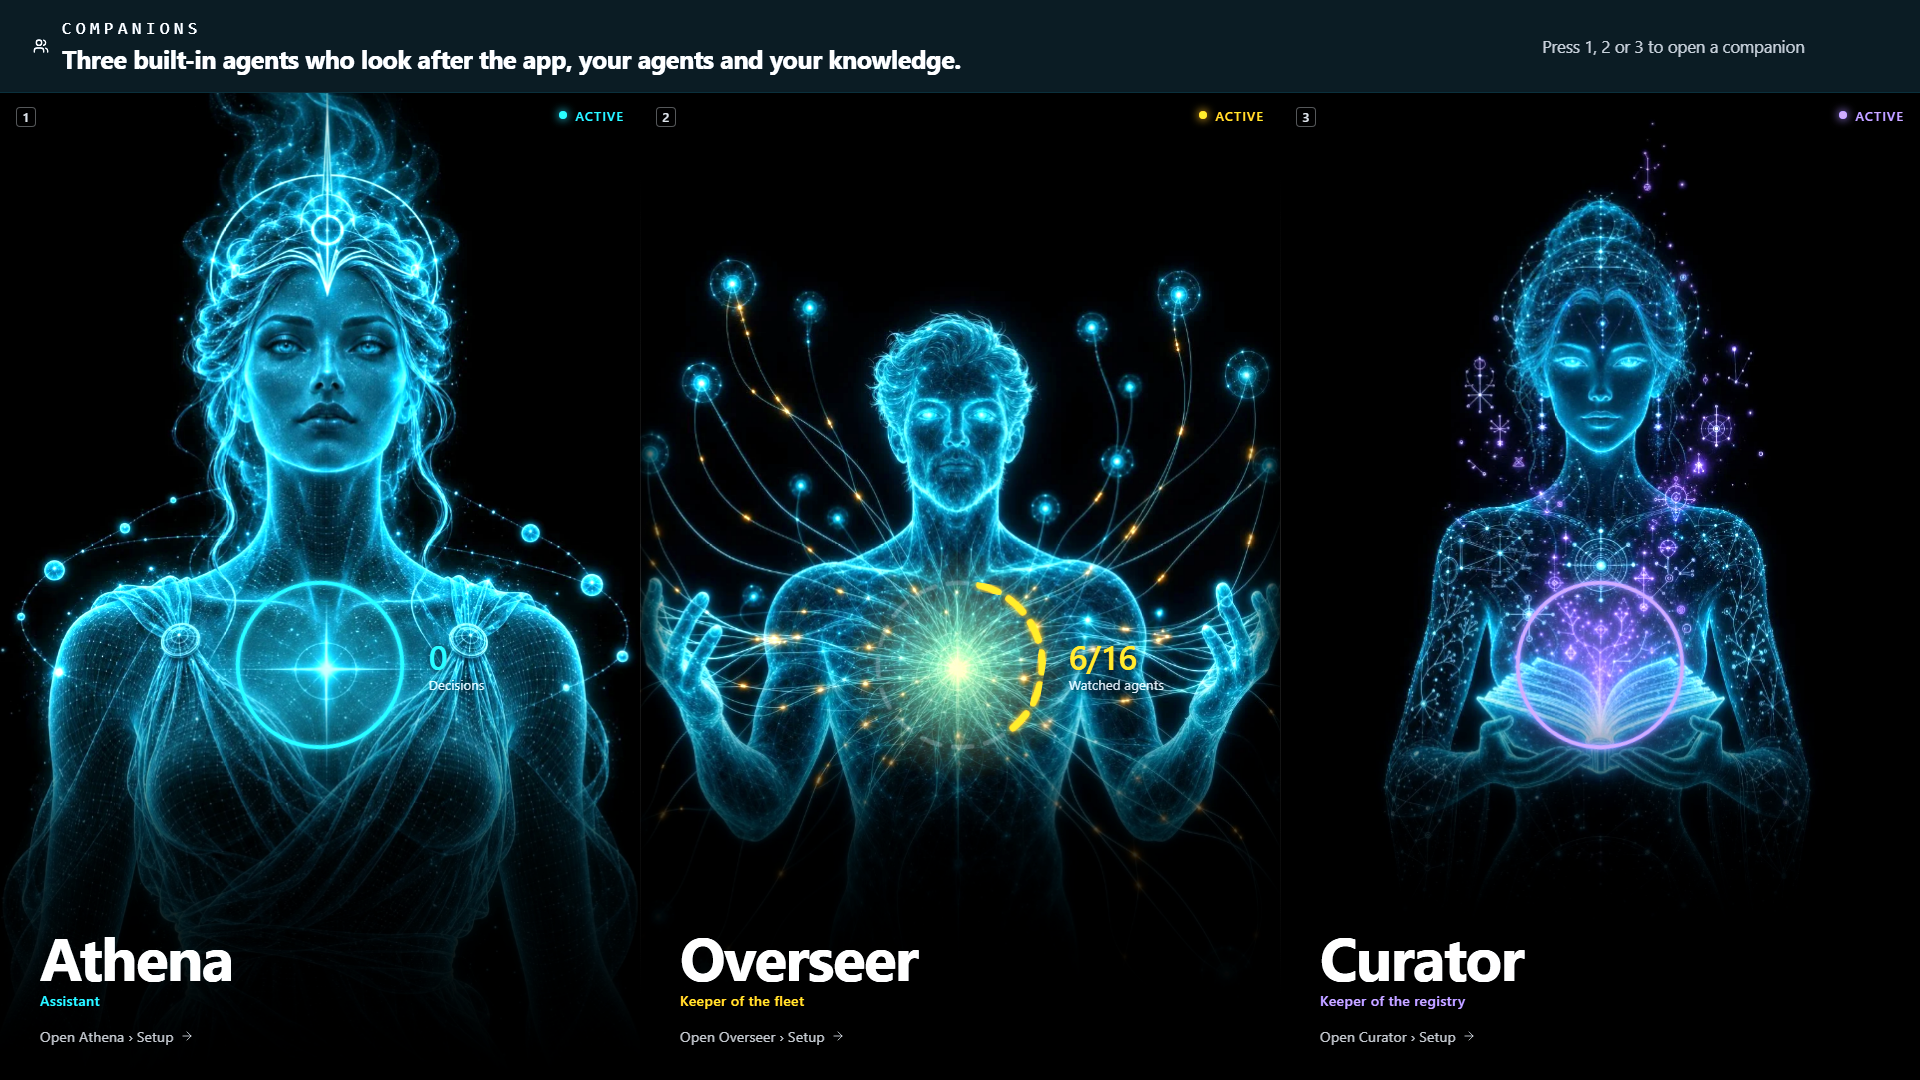
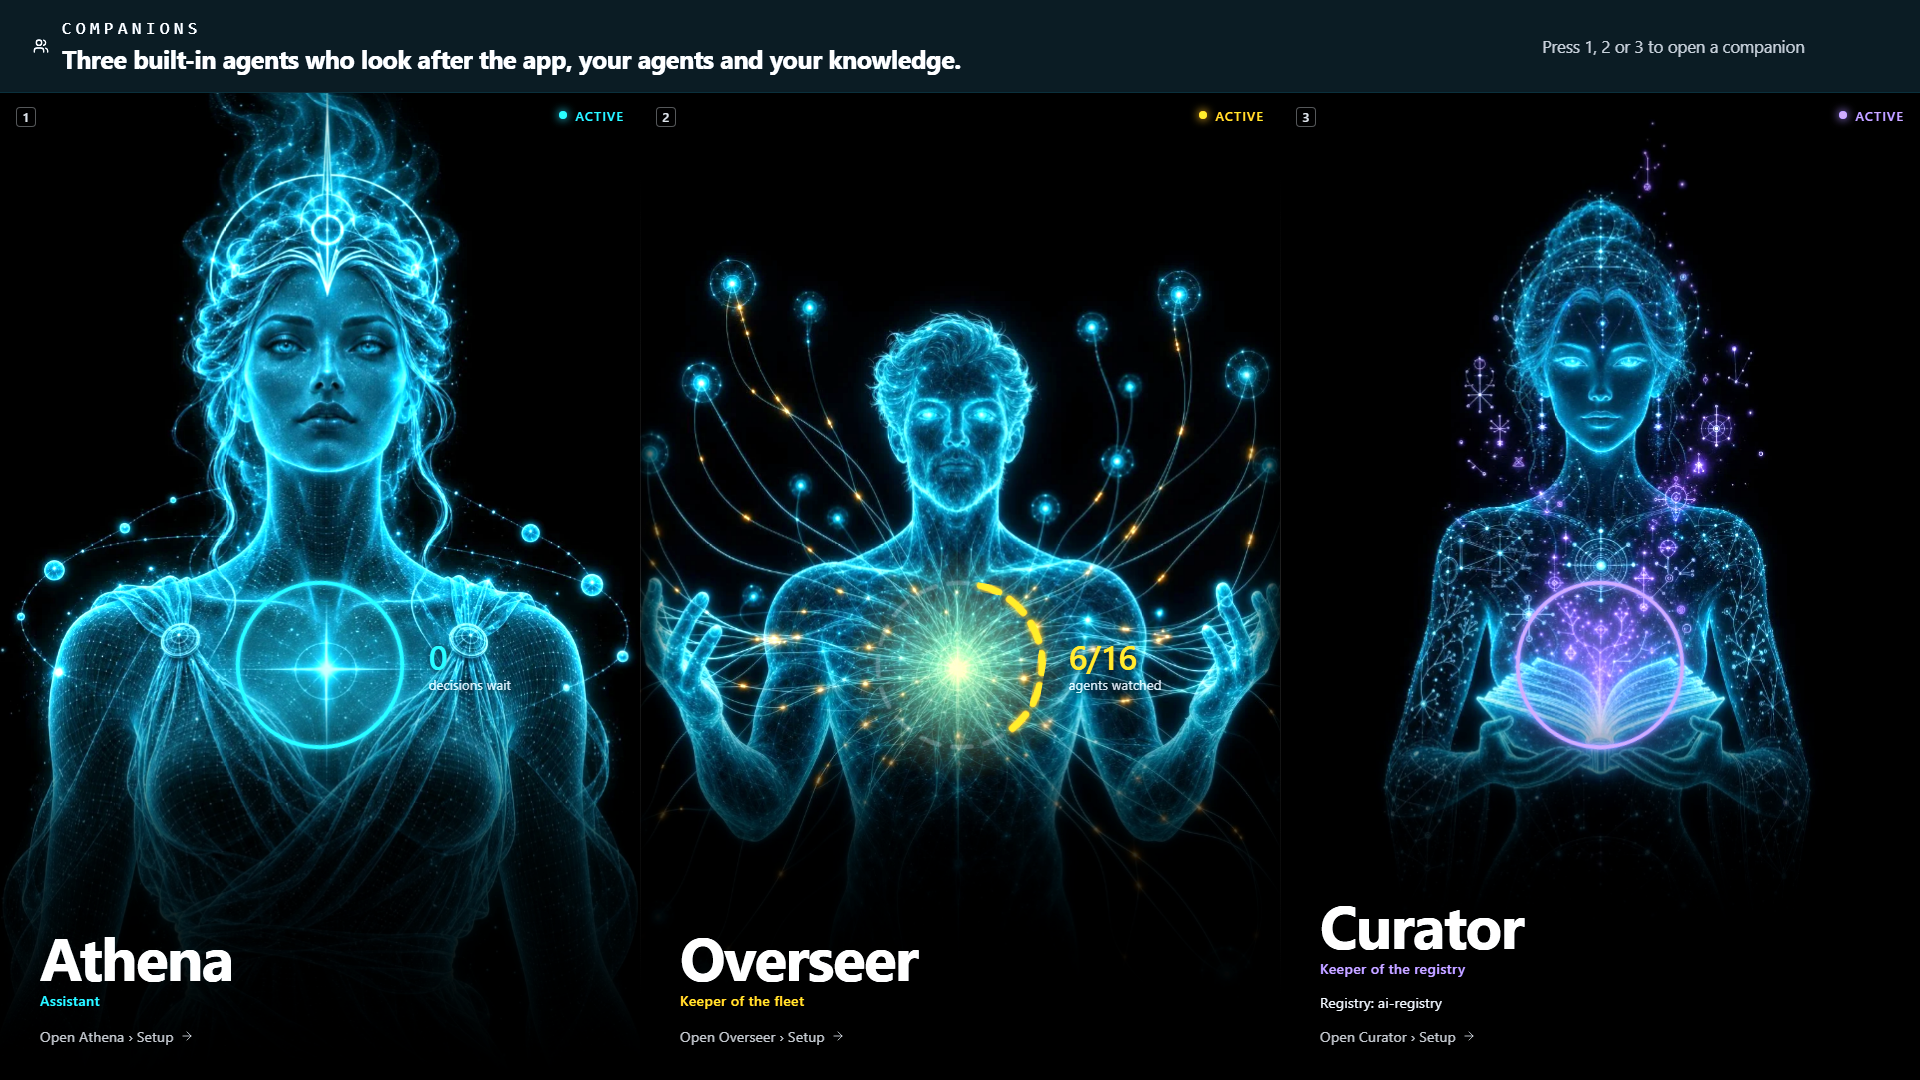
feat(companions): the landing takes its own keys, and the contract goes to zero
The seven keys a52d86f10 added are the ones the first port had to work
around, and adopting them closes both departures it had to accept:

  before  0 deviations across 12 roles, 2 accepted by the owner
          blocker.width  201 -> 293   facts.width  80 -> 54
  after   0 deviations across 13 roles, NOTHING accepted
          blocker.width  201 -> 201   facts.width  80 -> 80

Both widths are now pixel-identical to the winner, because the words are:
`landing.wake_no_starred_personas` is "Star an agent to watch", the same
line the prototype's designer wrote, and `landing.decisions_label` is
"decisions wait". Measured at 1440x900 and 1280x800, at the root the winner
was judged at and at the app's own. The `blocker.*` sentences are untouched
and stay with the Setup pages, which have room to explain rather than point.

`landing.registry_fact` gives Curator's prose line a key it can render, so
the winner's fact line above the action has a port for the one column
`CompanionDetailDto` can build a sentence for. That is the thirteenth role,
scoped to Curator on both sides.

The local `fill()` is gone. Every companions.* placeholder is single-brace
now, so the shared `interpolate` reads them and there is one interpolator in
the app again instead of three.

Driven, not screenshotted: 66 assertions, including that the chip carries no
full stop, that the count label is the noun phrase, that Curator names its
registry, that a companion with no fact draws no fact line, and that no `{`
[…]

Changed region(s): [[0.6875, 0.825, 0.8125, 0.9472], [0.5625, 0.6111, 0.5938, 0.6417], [0.2188, 0.6111, 0.25, 0.6417]]

diff --git a/src/features/companions/landing/landingModel.ts b/src/features/companions/landing/landingModel.ts
@@ -5,6 +5,7 @@
 // count is never drawn as 0. The four states come from `landingStateOf` and
 // the destination from `landingTarget` - this file invents neither.
 import type { Translations } from '@/i18n/generated/types';
+import { interpolate } from '@/i18n/useTranslation';
 
 import { landingStateOf } from '../status/landingState';
 import { landingTarget } from '../status/landingTarget';
@@ -35,6 +36,8 @@ export interface CompanionColumnView {
   stateWord: string;
   /** The one line that would wake a sleeping companion. Null while active. */
   blockerLine: string | null;
+  /** A live fact about this companion, when the DTO carries one. */
+  fact: string | null;
   openLine: string;
   /** The drawn quantity beside the ring. Null when nothing is known. */
   count: { value: string; label: string } | null;
@@ -46,20 +49,6 @@ export interface CompanionColumnView {
   portraitSrc: string;
   target: CompanionsPage;
   ariaLabel: string;
-}
-
-/**
- * `companions.*` writes placeholders as `{{name}}`; the shared `interpolate`
- * helper matches the single-brace `{name}` form and would leave `{Athena}`
- * behind. Two other surfaces hand-replace the double-brace form the same way
- * (`MemoryPanel.tsx:64`, `OverviewParts.tsx:103`). Requested for normalisation
- * in `wp4-key-requests.jsonl`; until then this is the reader.
- */
-function fill(template: string, vars: Record<string, string | number>): string {
-  if (typeof template !== 'string') return '';
-  return template.replace(/\{\{(\w+)\}\}/g, (whole, key: string) =>
-    vars[key] !== undefined ? String(vars[key]) : whole,
-  );
 }
 
 const NAME_KEY = { athena: 'group_athena', overseer: 'group_overseer', curator: 'group_curator' } as const;
@@ -74,12 +63,28 @@ function pageLabel(page: CompanionsPage, c: CompanionStrings): string {
   return c.nav.page_council;
 }
 
-/** The wake line: what a non-active companion is waiting for. */
+/**
+ * The wake line: what a non-active companion is waiting for, in the chip's own
+ * voice. `landing.wake_*` are short imperatives sized for the chip; the longer
+ * `blocker.*` sentences belong to the Setup pages, where there is room to
+ * explain rather than to point.
+ */
 function blockerOf(status: CompanionStatusDto, state: LandingState, c: CompanionStrings): string | null {
   if (state === 'active') return null;
-  if (state === 'off') return c.blocker.off;
-  if (state === 'needs_onboarding') return c.blocker.not_onboarded;
-  return status.blocker ? c.blocker[status.blocker] : c.blocker.off;
+  if (state === 'off') return c.landing.wake_off;
+  if (state === 'needs_onboarding') return c.landing.wake_not_onboarded;
+  if (status.blocker === 'no_starred_personas') return c.landing.wake_no_starred_personas;
+  if (status.blocker === 'no_registry') return c.landing.wake_no_registry;
+  return c.landing.wake_not_onboarded;
+}
+
+/**
+ * The prose line above the action. Only Curator has one today: the DTO carries
+ * a registry NAME and nothing else a sentence could be built from.
+ */
+function factOf(status: CompanionStatusDto, c: CompanionStrings): string | null {
+  const name = status.detail.registryName;
+  return name === undefined ? null : interpolate(c.landing.registry_fact, { name });
 }
 
 /**
@@ -95,8 +100,8 @@ function countOf(
   const d = status.detail;
   if (status.id === 'athena' && d.pendingDecisions !== undefined) {
     return {
-      count: { value: String(d.pendingDecisions), label: c.nav.page_decisions },
-      sentence: fill(c.landing.decisions_waiting, { count: d.pendingDecisions }),
+      count: { value: String(d.pendingDecisions), label: c.landing.decisions_label },
+      sentence: interpolate(c.landing.decisions_waiting, { count: d.pendingDecisions }),
     };
   }
   // `agentsTotal` of 0 is a real reading, but "0/0 agents" says nothing: on a
@@ -104,8 +109,8 @@ function countOf(
   // says so. The prototype guards the same way.
   if (status.id === 'overseer' && d.starredCount !== undefined && (d.agentsTotal ?? 0) > 0) {
     return {
-      count: { value: `${d.starredCount}/${d.agentsTotal}`, label: c.setup.overseer_scope_title },
-      sentence: fill(c.landing.agents_watched, { count: d.starredCount }),
+      count: { value: `${d.starredCount}/${d.agentsTotal}`, label: c.landing.agents_label },
+      sentence: interpolate(c.landing.agents_watched, { count: d.starredCount }),
     };
   }
   return { count: null, sentence: '' };
@@ -134,8 +139,9 @@ export function columnOf(status: CompanionStatusDto, index: number, c: Companion
   const name = c.nav[NAME_KEY[status.id]];
   const title = c.identity[TITLE_KEY[status.id]];
   const target = landingTarget(status);
-  const openLine = `${fill(c.landing.open_hint, { name })} › ${pageLabel(target, c)}`;
+  const openLine = `${interpolate(c.landing.open_hint, { name })} › ${pageLabel(target, c)}`;
   const blockerLine = blockerOf(status, state, c);
+  const fact = factOf(status, c);
   const { count, sentence } = countOf(status, c);
   const stateWord = c.state[state];
 
@@ -148,6 +154,7 @@ export function columnOf(status: CompanionStatusDto, index: number, c: Companion
     state,
     stateWord,
     blockerLine,
+    fact,
     openLine,
     count,
     ring: ringOf(status, state),
@@ -155,7 +162,7 @@ export function columnOf(status: CompanionStatusDto, index: number, c: Companion
     working: state === 'active',
     portraitSrc: `/companions/${status.id}/portrait.webp`,
     target,
-    ariaLabel: [`${name}, ${title}.`, `${stateWord}.`, sentence, blockerLine ?? openLine]
+    ariaLabel: [`${name}, ${title}.`, `${stateWord}.`, sentence, fact, blockerLine ?? openLine]
       .filter(Boolean)
       .join(' '),
   };

diff --git a/src/features/companions/landing/__tests__/landingModel.test.ts b/src/features/companions/landing/__tests__/landingModel.test.ts
@@ -40,20 +40,37 @@ describe('state -> visual treatment', () => {
     expect(v.target).toBe('athena:setup');
   });
 
+  it('the chip speaks in imperatives; the blocker.* sentences stay with Setup', () => {
+    const wakes = [
+      view(athena({ enabled: false })).blockerLine,
+      view(athena({ onboarded: false })).blockerLine,
+      view(overseer({ eligible: false, blocker: 'no_starred_personas' })).blockerLine,
+      view(curator({ eligible: false, blocker: 'no_registry' })).blockerLine,
+    ];
+    expect(wakes).toEqual([
+      T.landing.wake_off,
+      T.landing.wake_not_onboarded,
+      T.landing.wake_no_starred_personas,
+      T.landing.wake_no_registry,
+    ]);
+    for (const w of wakes) expect(w).not.toMatch(/\.$/);
+    expect(wakes).not.toContain(T.blocker.no_starred_personas);
+  });
+
   it('off: still herself, but dark, and the wake line says how to switch her on', () => {
     const v = view(athena({ enabled: false }));
     expect(v.state).toBe('off');
     expect(v.stateWord).toBe(T.state.off);
     expect(v.working).toBe(false);
     expect(v.beads).toBe(0);
-    expect(v.blockerLine).toBe(T.blocker.off);
+    expect(v.blockerLine).toBe(T.landing.wake_off);
   });
 
   it('needs_onboarding: a ring still being drawn, and the door is her own wizard', () => {
     const v = view(athena({ onboarded: false }));
     expect(v.state).toBe('needs_onboarding');
     expect(v.ring).toEqual({ kind: 'drawing' });
-    expect(v.blockerLine).toBe(T.blocker.not_onboarded);
+    expect(v.blockerLine).toBe(T.landing.wake_not_onboarded);
     expect(v.target).toBe('athena:create-athena');
   });
 
@@ -64,20 +81,20 @@ describe('state -> visual treatment', () => {
     }));
     expect(v.state).toBe('blocked');
     expect(v.ring).toEqual({ kind: 'broken', ticks: 16, missing: 'star' });
-    expect(v.blockerLine).toBe(T.blocker.no_starred_personas);
+    expect(v.blockerLine).toBe(T.landing.wake_no_starred_personas);
     expect(v.target).toBe('overseer:setup');
   });
 
   it("a missing registry breaks Curator's ring with a page, not a star", () => {
     const v = view(curator({ enabled: false, eligible: false, blocker: 'no_registry' }));
     expect(v.ring).toEqual({ kind: 'broken', ticks: 0, missing: 'page' });
-    expect(v.blockerLine).toBe(T.blocker.no_registry);
+    expect(v.blockerLine).toBe(T.landing.wake_no_registry);
   });
 
   it("Overseer's ring is one tick per agent, lit for the starred ones", () => {
     const v = view(overseer({ detail: { starredCount: 6, agentsTotal: 16 } }));
     expect(v.ring).toEqual({ kind: 'ticks', total: 16, lit: 6 });
-    expect(v.count).toEqual({ value: '6/16', label: T.setup.overseer_scope_title });
+    expect(v.count).toEqual({ value: '6/16', label: T.landing.agents_label });
   });
 });
 
@@ -102,6 +119,21 @@ describe('a missing count is never a zero', () => {
   });
 });
 
+describe('the fact line', () => {
+  it('names the registry Curator curates, from the one field the DTO carries', () => {
+    const v = view(curator({ detail: { registryName: 'ai-registry' } }));
+    expect(v.fact).toBe('Registry: ai-registry');
+    expect(v.fact).not.toContain('{');
+    expect(v.ariaLabel).toContain('ai-registry');
+  });
+
+  it('is absent for a companion with no fact on the wire', () => {
+    expect(view(athena({ detail: { pendingDecisions: 2 } })).fact).toBeNull();
+    expect(view(overseer({ detail: { starredCount: 6, agentsTotal: 16 } })).fact).toBeNull();
+    expect(view(curator()).fact).toBeNull();
+  });
+});
+
 describe('the words', () => {
   it('every column is worded from companions.* and keyed 1, 2, 3 in category order', () => {
     const views = columnsOf([athena(), overseer(), curator()], T);
@@ -109,7 +141,9 @@ describe('the words', () => {
     expect(views.map((v) => v.name)).toEqual([T.nav.group_athena, T.nav.group_overseer, T.nav.group_curator]);
     expect(views.map((v) => v.title)).toEqual([T.identity.athena_title, T.identity.overseer_title, T.identity.curator_title]);
     expect(views.map((v) => v.tagline)).toEqual([T.identity.athena_tagline, T.identity.overseer_tagline, T.identity.curator_tagline]);
-    for (const v of views) expect(`${v.name}${v.title}${v.openLine}${v.ariaLabel}`).not.toContain('{{');
+    // every placeholder is resolved by the shared `interpolate`, in either
+    // spelling - an unfilled `{name}` or a left-over `{{name}}` both fail here
+    for (const v of views) expect(`${v.name}${v.title}${v.openLine}${v.ariaLabel}`).not.toMatch(/\{/);
   });
 
   it('the accessible name carries the state, the quantity and the destination', () => {
@@ -117,6 +151,6 @@ describe('the words', () => {
     expect(label).toContain(T.nav.group_athena);
     expect(label).toContain(T.state.active);
     expect(label).toContain('2');
-    expect(label).not.toContain('{{count}}');
+    expect(label).not.toMatch(/\{/);
   });
 });

diff --git a/src/features/companions/landing/__tests__/CompanionsTriptych.keyboard.test.tsx b/src/features/companions/landing/__tests__/CompanionsTriptych.keyboard.test.tsx
@@ -10,11 +10,18 @@ import { AppKeyboardProvider } from '@/lib/keyboard/AppKeyboardProvider';
 import { CompanionsTriptych } from '../CompanionsTriptych';
 import type { CompanionStatusDto } from '../../types';
 
-vi.mock('@/i18n/useTranslation', async () => {
+// Only `useTranslation` is stubbed; the module also owns the real
+// `interpolate`, which `landingModel` uses to fill `{name}` / `{count}`, so
+// the rest of it is spread back in rather than replaced.
+vi.mock('@/i18n/useTranslation', async (importOriginal) => {
+  const actual = await importOriginal<typeof import('@/i18n/useTranslation')>();
   // INVARIANT: the en section file IS the `companions` subtree of the bundle -
   // the generator builds the types from it and check:i18n:strict gates drift.
   const companions = (await import('@/i18n/section-locales/en/companions.json')).default;
-  return { useTranslation: () => ({ t: { companions }, language: 'en', tx: (s: string) => s }) };
+  return {
+    ...actual,
+    useTranslation: () => ({ t: { companions }, language: 'en', tx: actual.interpolate }),
+  };
 });
 
 const STATUS: CompanionStatusDto[] = [

diff --git a/src/features/companions/landing/CompanionColumn.tsx b/src/features/companions/landing/CompanionColumn.tsx
@@ -73,6 +73,11 @@ export const CompanionColumn = forwardRef<HTMLButtonElement, CompanionColumnProp
           <span className="hl-tag" data-role="tagline">
             {view.tagline}
           </span>
+          {view.fact ? (
+            <span className="hl-fact" data-role="fact">
+              {view.fact}
+            </span>
+          ) : null}
           {view.blockerLine ? (
             <span className="hl-wake" data-role="blocker">
               {view.blockerLine}

diff --git a/src/features/companions/landing/heartlight-copy.css b/src/features/companions/landing/heartlight-copy.css
@@ -52,6 +52,7 @@
   transition: max-height var(--duration-slow), opacity var(--duration-slow);
 }
 .hl-col:hover .hl-tag, .hl-col:focus-visible .hl-tag { max-height: 5em; opacity: 1; }
+.hl-fact { margin: 6px 0 0; font-size: 0.875rem; font-weight: 400; line-height: 1.5; color: rgba(226, 232, 240, 0.86); }
 .hl-wake {
   margin: 8px 0 0; justify-self: start;
   display: inline-flex; align-items: center; gap: 8px;
